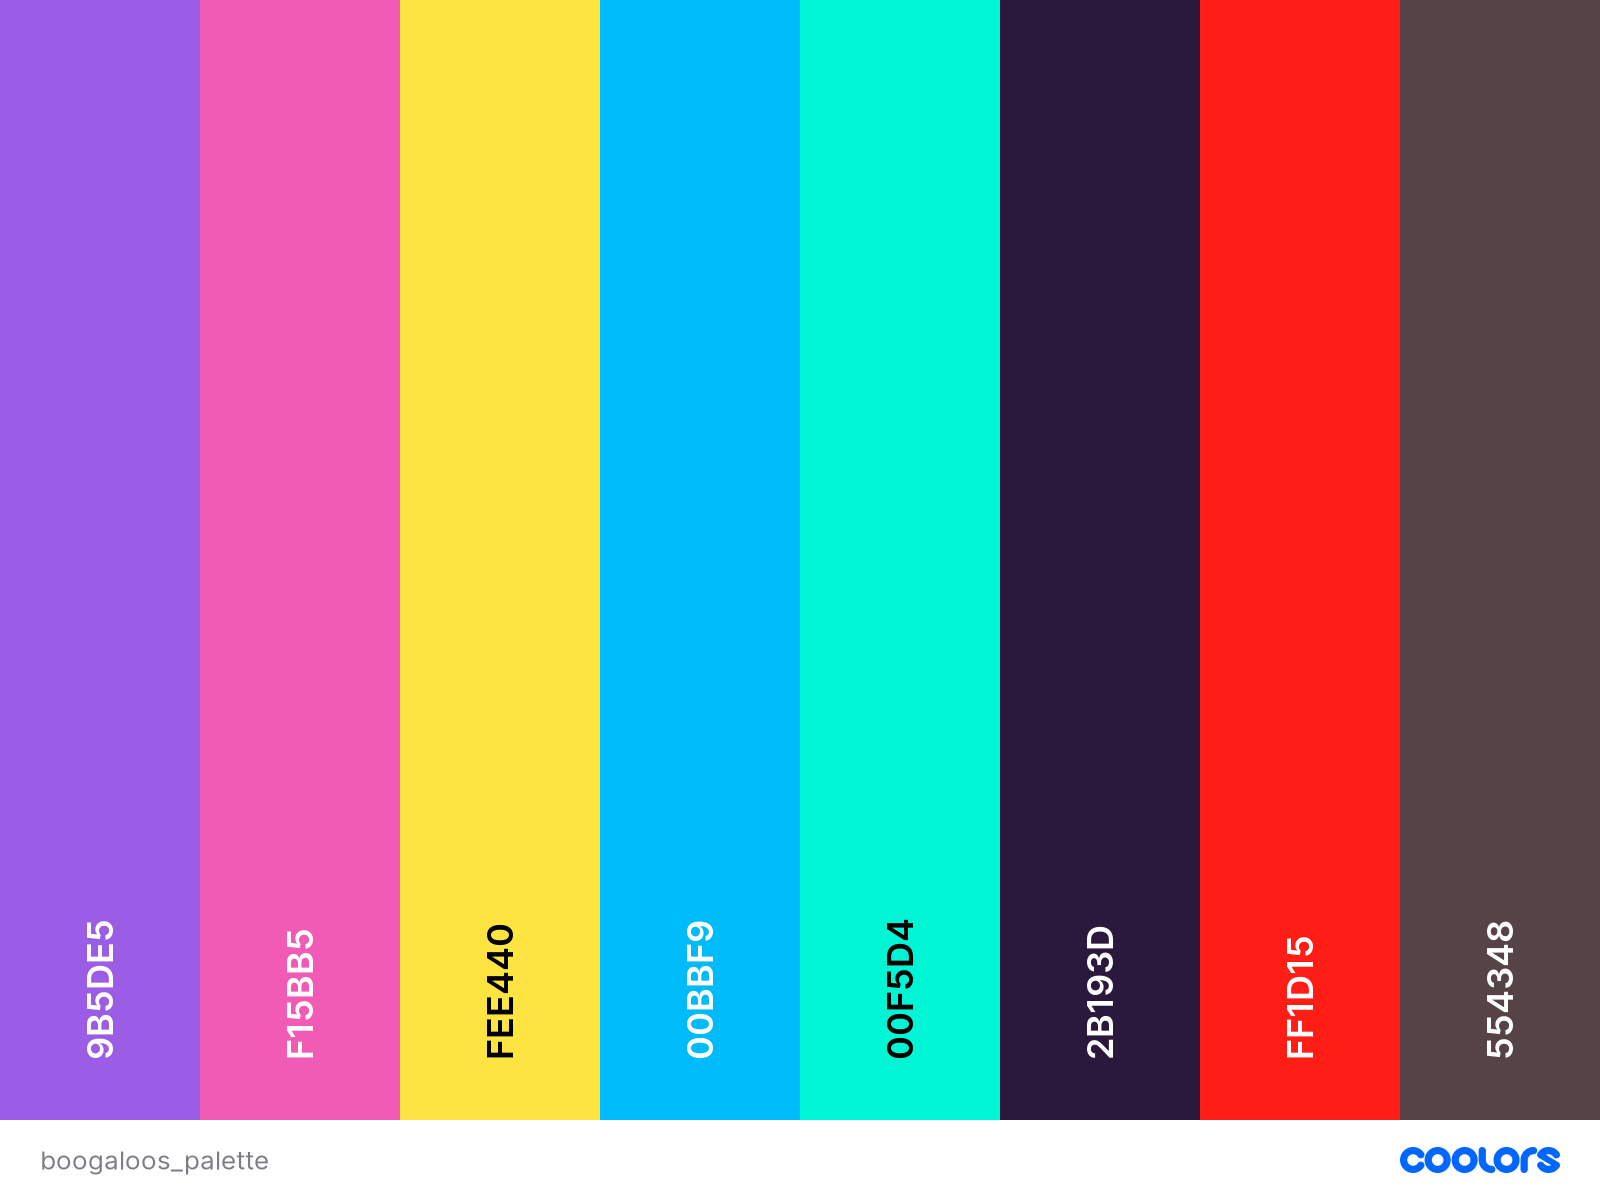
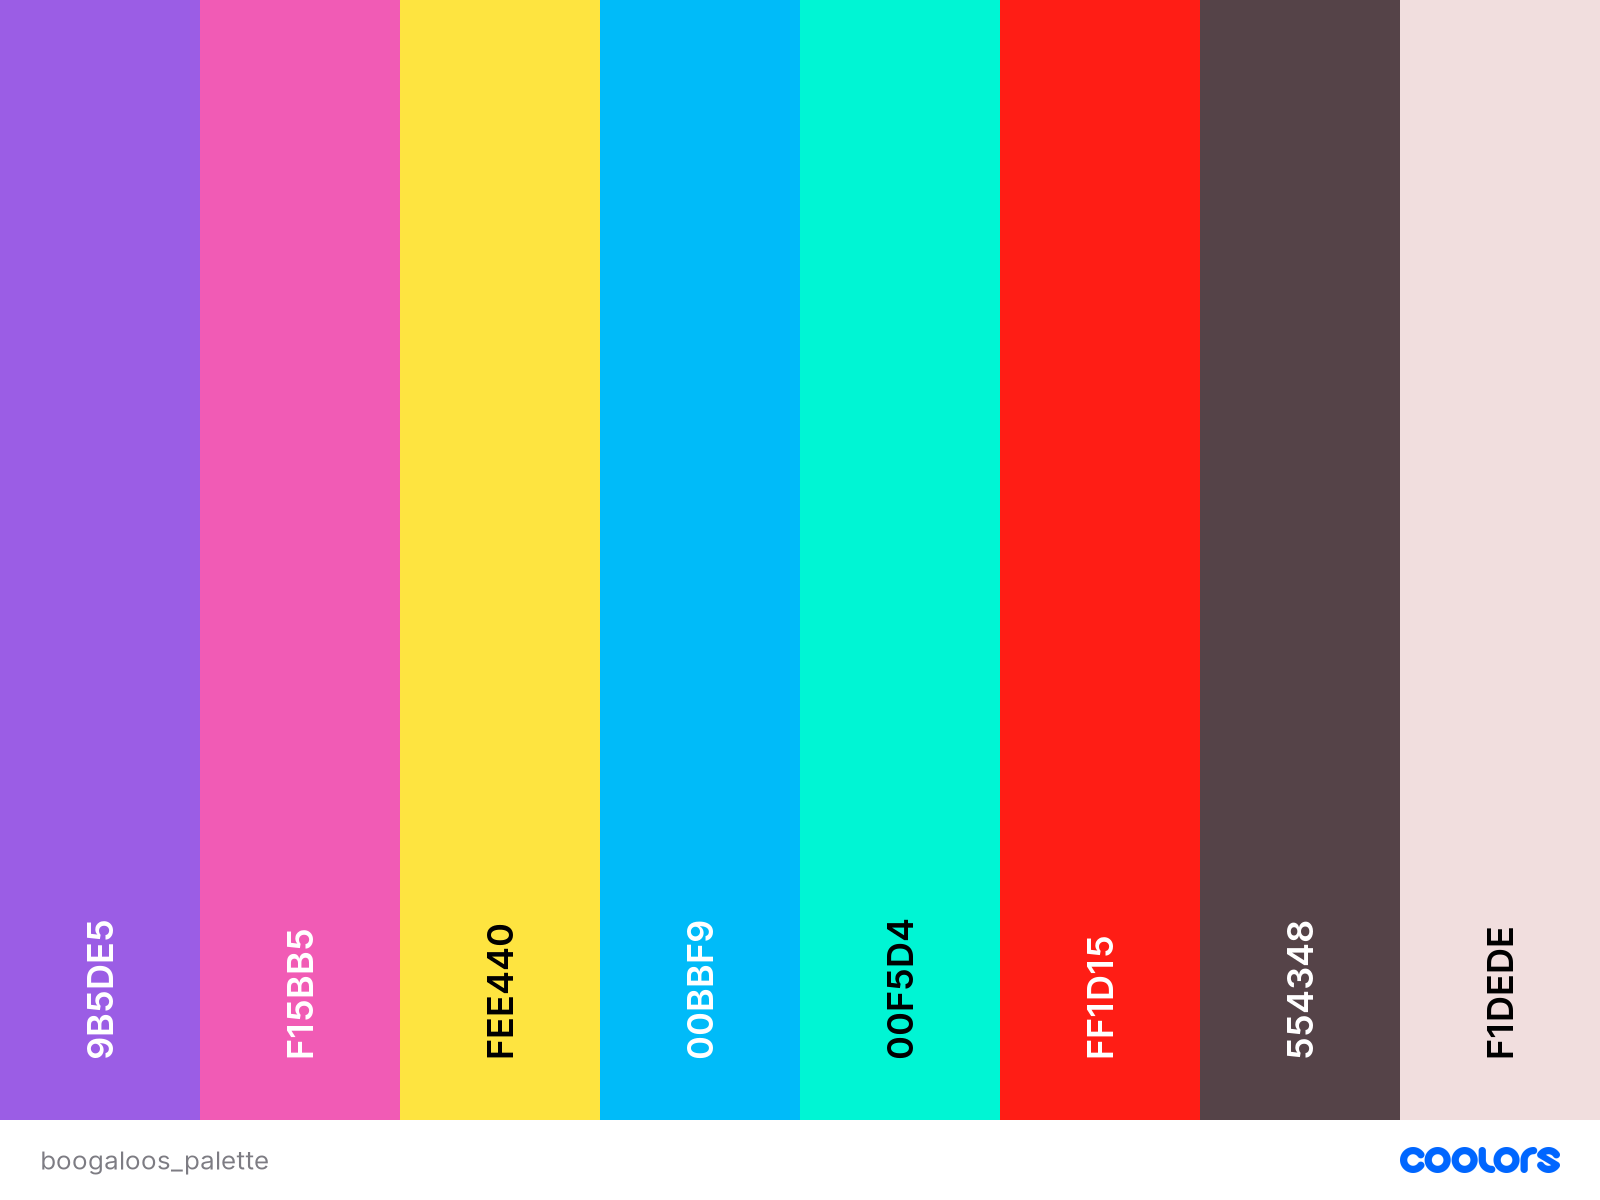
changed dark purple to misty rose for visibility

diff --git a/snaDiagram_d3v4/boundedZoomData.js b/snaDiagram_d3v4/boundedZoomData.js
@@ -225,8 +225,8 @@ function familyChart() {
           case 'enemy':
             return "#ff1d15";//Red RYB 
           case 'rival':
-            return "2b193d" //dark purple;
-            case 'family':
+            return "#f1dede" //misty rose
+          case 'family':
             return "#00f5d4";//Sea Green Crayola
           default:
             return "gray";//#59d9fe dark blue, #32cffc darker
